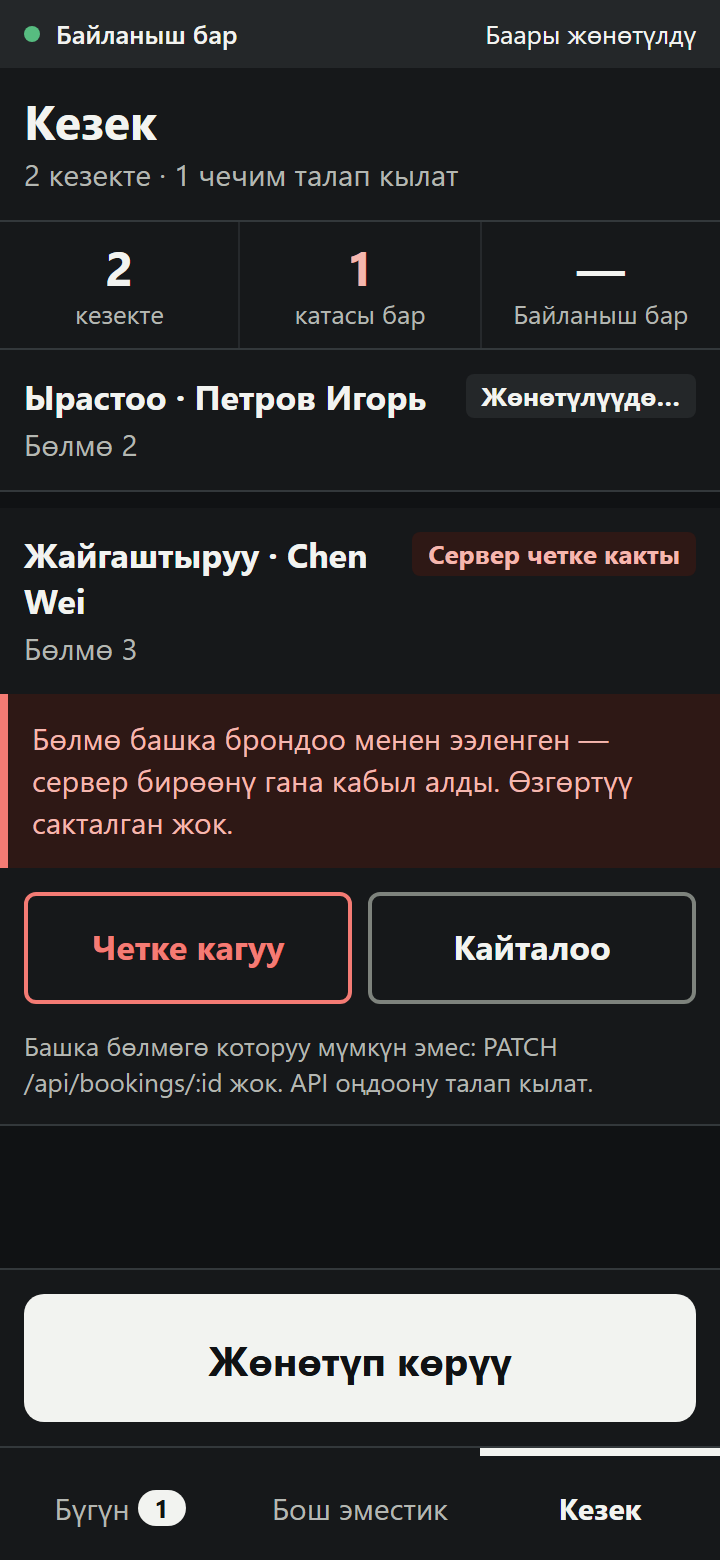
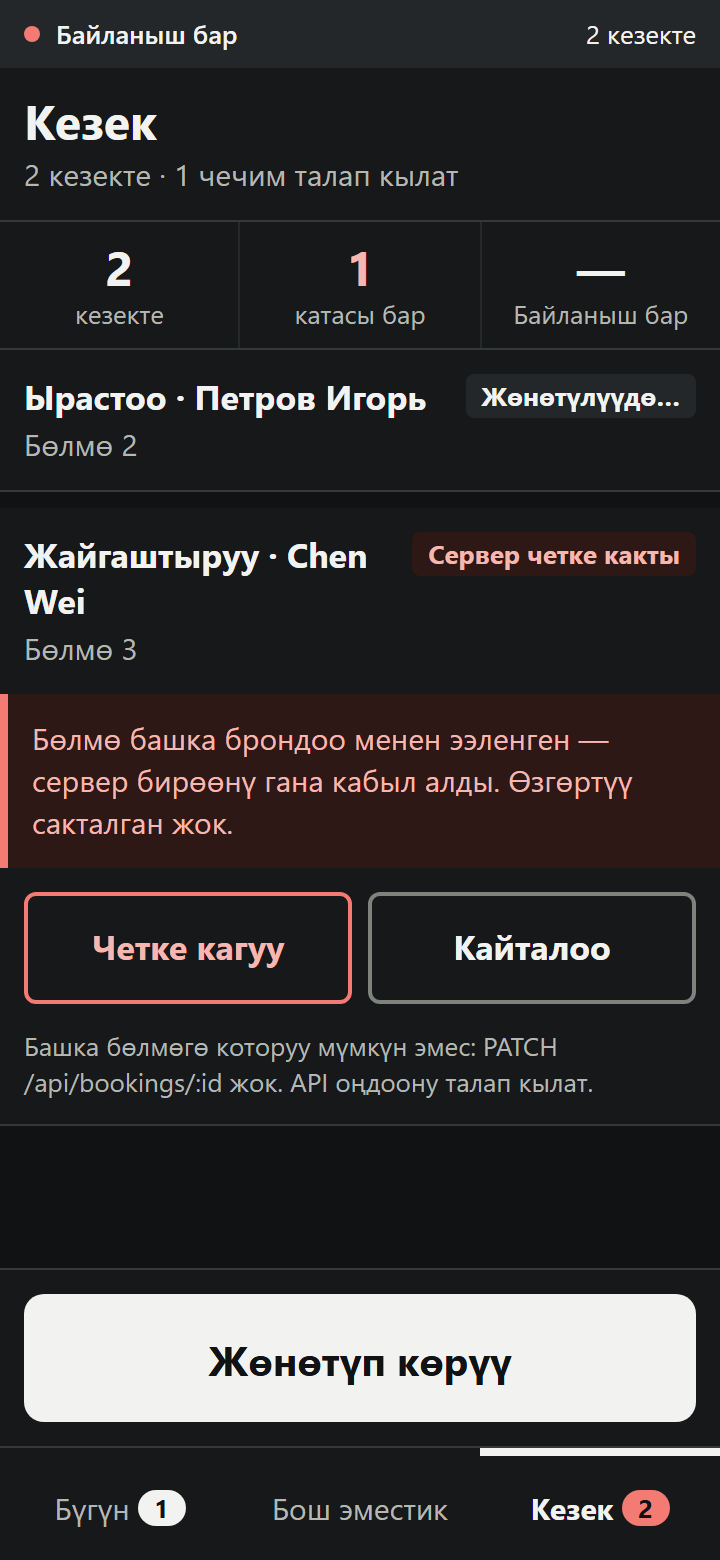
feat(design): токен --nc-action-danger-text для подписи необратимого действия
Замер уточнил картину: --nc-action-danger-fg #B03024 даёт 6,37:1 на
surface, но 4,86:1 на худшем фоне светлой темы (--nc-bg-band). Для
ГРАНИЦЫ этого достаточно — порог нетекстового контраста 3:1. Для ПОДПИСИ
нет: критерий приёмки требует 7:1 для основного текста.

Одним значением две роли не закрыть, поэтому заведён отдельный токен.
Значение задано ссылкой на --nc-signal-error-fg, а не копией числа:
красный текст в системе один, новых литералов не появилось, но роли
теперь могут разойтись, не ломая друг друга.

Замер нового токена:
  светлая  10,37 surface · 8,84 canvas · 9,58 sunken · 7,90 band
  тёмная   10,41 surface · 10,97 canvas · 9,57 sunken · 8,79 band

NcButton в варианте danger берёт текст из нового токена, границу — из
прежнего. Затронуты «Отменить бронь» на карточке и «Отклонить» в очереди.

После правки автопроверка проходит ПОЛНОСТЬЮ: 36 вариантов, 0 нарушений
контраста (было 6 в светлой теме).

diff --git a/apps/web/design-system/tokens.css b/apps/web/design-system/tokens.css
@@ -116,7 +116,16 @@
   --nc-action-secondary-bg: #FFFFFF;
   --nc-action-secondary-fg: #111310;
   --nc-action-secondary-bd: #111310;
-  --nc-action-danger-fg:    #B03024;  /* 6.4:1 */
+  /* ГРАНИЦА и акцент необратимого действия. 6,37:1 на surface, 4,86:1 на
+     худшем фоне светлой темы (band) — для границы достаточно (порог 3:1),
+     для ТЕКСТА нет. Текст берёт токен ниже. */
+  --nc-action-danger-fg:    #B03024;
+  /* ТЕКСТ необратимого действия. Отдельный токен, потому что у границы и у
+     подписи разные пороги: 3:1 против 7:1. Значение задано ссылкой, а не
+     копией числа: красный текст в системе один, и разъезжаться этим двум
+     ролям незачем — но теперь они МОГУТ разойтись, не ломая друг друга.
+     Замер: 10,37 surface · 8,84 canvas · 9,58 sunken · 7,90 band. */
+  --nc-action-danger-text:  var(--nc-signal-error-fg);
   --nc-action-disabled-bg:  #DDDDD7;
   --nc-action-disabled-fg:  #6B6D68;
 
@@ -177,7 +186,9 @@
   --nc-action-secondary-bg: transparent;
   --nc-action-secondary-fg: #F2F3F0;
   --nc-action-secondary-bd: #7E837D;
-  --nc-action-danger-fg:    oklch(0.72 0.15 25);  /* 6.9:1 */
+  --nc-action-danger-fg:    oklch(0.72 0.15 25);  /* граница, порог 3:1 */
+  /* Замер: 10,41 surface · 10,97 canvas · 9,57 sunken · 8,79 band */
+  --nc-action-danger-text:  var(--nc-signal-error-fg);
   --nc-action-disabled-bg:  #26292C;
   --nc-action-disabled-fg:  #7E837D;
 
@@ -214,6 +225,7 @@
     --nc-action-primary-bg: #F2F3F0; --nc-action-primary-fg: #101214;
     --nc-action-secondary-bg: transparent; --nc-action-secondary-fg: #F2F3F0; --nc-action-secondary-bd: #7E837D;
     --nc-action-danger-fg: oklch(0.72 0.15 25);
+    --nc-action-danger-text: var(--nc-signal-error-fg);
     --nc-action-disabled-bg: #26292C; --nc-action-disabled-fg: #7E837D;
     --nc-status-hold: oklch(0.76 0.13 70); --nc-status-confirmed: oklch(0.72 0.12 255);
     --nc-status-inhouse: oklch(0.72 0.13 155); --nc-status-out: #33383B; --nc-status-cancelled: oklch(0.70 0.16 25);

diff --git a/apps/web/design-system/primitives/NcButton.vue b/apps/web/design-system/primitives/NcButton.vue
@@ -77,9 +77,12 @@ withDefaults(defineProps<{
   color: var(--nc-text-secondary);
   border-color: var(--nc-text-tertiary);
 }
+/* Текст и граница берут РАЗНЫЕ токены: у подписи порог 7:1, у границы 3:1,
+   и одним значением их не закрыть — красный, проходящий как граница,
+   как текст не проходит. */
 .nc-btn--danger {
   background: var(--nc-action-secondary-bg);
-  color: var(--nc-action-danger-fg);
+  color: var(--nc-action-danger-text);
   border-color: var(--nc-action-danger-fg);
 }
 .nc-btn--quiet {
